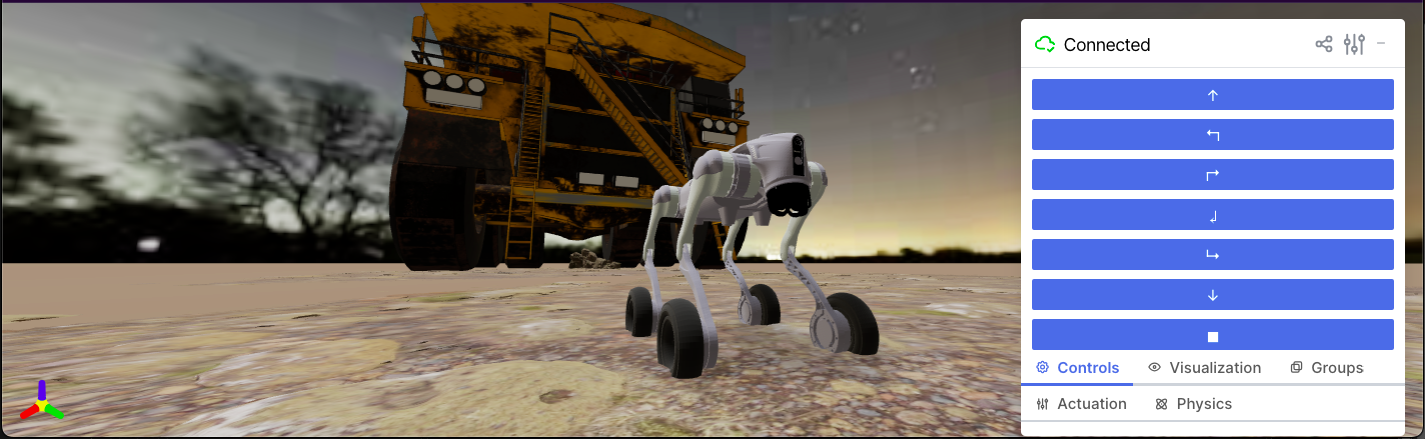
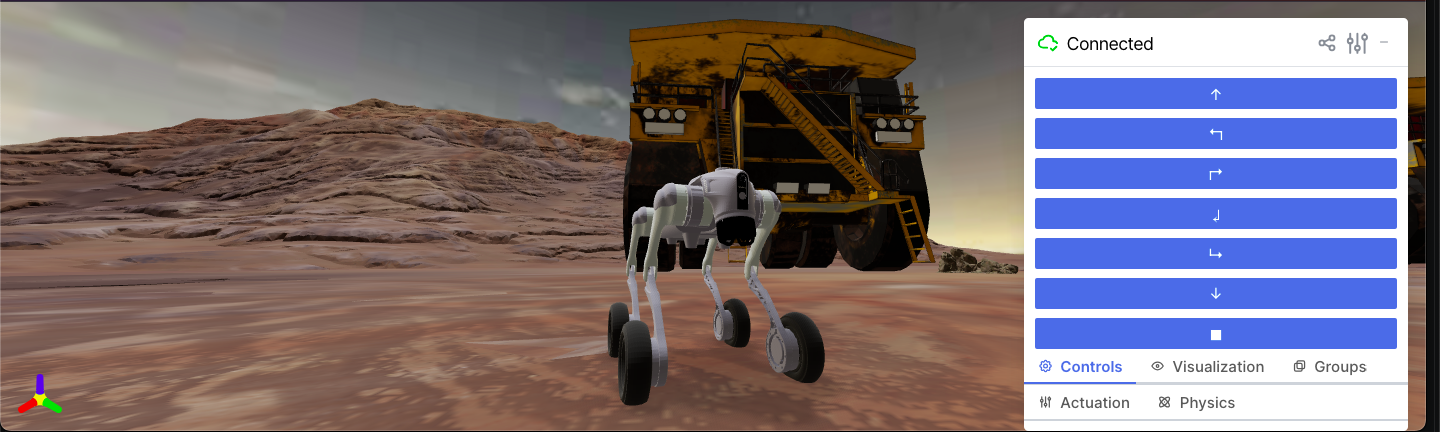
docs: adjusted details of documentation

diff --git a/README.md b/README.md
@@ -2,17 +2,13 @@
 
 ## System Overview
 
-An agent-based data processing workflow designed for automated situational reporting on site. The system monitors designated zones to identify structural elements and geographical obstacles simultaneously, using a wheeled robot configuration. Data streams from physical simulation definitions, through a robotics middleware layer, into a cloud infrastructure for storage and validation.
-
-The pipeline processes image streams from the robot camera, routes real-time telemetry to an operations dashboard, and assesses specific object proximities. If a detection falls below a high-confidence threshold, an independent asynchronous generative agent auditor validates the visual metrics, handles verification reporting, and routes confirmed alert signatures directly back into the primary communication stream.
+Robotics system designed for the mining industry integrated with cloud capabilities, detecting high-size rocks near trucks, notifying teams regarding their findings through email notifications. This system combines real-time computer vision with decentralized cloud and GenAI processes to execute predictions on the trucks while synchronizing visual evidence with dashboards to ensure continuous operational safety.
 
 ---
 
 ## In Engine Operation
 
-The workspace interface mounts a dual-pane runtime window to manage the locomotion and observation routines of the robot. 
-
-The primary viewport displays the tridimensional simulation space populated with ground mesh elements, macro obstacles, and large-scale machinery assets. A floating telemetry control deck anchors to the side, exposing programmatic interface hooks for directional actuation coordinates, sensor visualization settings, scene physics parameters, and state status reporting.
+The environment is a mining site where two trucks are parked, and near them are the rocks the robot is responsible for identifying.
 
 ![Operational Workspace](docs/In-engine-image.png)
 
@@ -20,33 +16,30 @@ The primary viewport displays the tridimensional simulation space populated with
 
 ## Features
 
-- **Proximity Event Logging:** Captures co-occurrence events involving geographical elements and machinery assets from raw visual matrices.
-- **Real-Time Observability and RoboOps:** Streams raw camera topic metrics into a remote **Foxglove Studio** control room dashboard using high-performance WebSocket bridges for live site monitoring.
-- **Asynchronous Execution Buffering:** Implements standard polling delays within the notification loop to manage stream frequencies.
-- **Decoupled Validation Engine:** Employs an independent compute layer (`agent_auditor`) to review lower-confidence edge-case data entries without hindering telemetry ingestion.
-- **Structured Schema Enforcements:** Assures type uniformity and properties definition across the data ingestion pipeline using explicit schema definitions.
-
+- **Real-Time Observability:** Streams raw camera topic metrics into a remote Foxglove Studio control room dashboard using WebSocket bridges for live site monitoring.
+- **Decoupled Validation Engine:** Employs an independent GenAI layer to review lower-confidence data entries without hindering telemetry ingestion.
+- **Structured Schema Enforcement:** Ensures type uniformity and property definitions across the data ingestion pipeline using explicit schema definitions.
 ---
 
 ## Data Flow
 
 ```mermaid
 graph TD
-    subgraph Simulation and Middleware
-        MUJOCO("MuJoCo Simulation Frame") --> |Camera Stream| ROS2("ROS2 Camera Topic")
-        ROS2 --> |CvBridge Ingestion| YOLO("YOLO Object Detection")
-        ROS2 --> |Foxglove Bridge WebSocket| FOXGLOVE("Foxglove Studio Live Dashboard")
+    subgraph Robotics System
+        MUJOCO("Robotics Simulation") --> |Camera Recording| ROS2("ROS2 Topic")
+        ROS2 --> |ROS2 Ingestion| ComputerVision("Computer Vision Object Detection")
+        ROS2 --> |ROS2 Ingestion| WebDashboard("Web Dashboard")
     end
 
     subgraph High Confidence Route
-        YOLO --> |High Confidence Match| IOT("AWS IoT Core Message Broker")
+        ComputerVision --> |High Confidence Prediction| IOT("AWS IoT")
     end
 
     subgraph Low Confidence & Validation Infrastructure
-        YOLO --> |Low Confidence Match| S3("Amazon S3 Bucket")
-        S3 --> |Object Creation Event Trigger| LAMBDA("AWS Lambda Function")
-        LAMBDA --> |Image Audit Invocation| CHATGPT("GPT-5-nano Auditor Model")
-        CHATGPT --> |Positive Verification Payload| IOT
+        ComputerVision --> |Low Confidence Prediction| Bucket("Cloud Bucket")
+        Bucket --> |Object Creation Event Trigger| ServerlessFunction("Cloud Serverless Function")
+        ServerlessFunction --> |Image Audit Invocation| GenAIAgent("GenAI Agent")
+        GenAIAgent --> |Positive Verification| IOT
     end
 
     subgraph Downstream Alerts
@@ -54,24 +47,26 @@ graph TD
     end
 ```
 
-1. **Vision Retrieval:** The Unitree Go2w robot simulation evaluates geographical fields near asset locations via its camera system.
-2. **Topic Subscription and Live Observability:** Frames are mapped into an active ROS2 topic (`sensor_msgs/msg/Image`) via a bridge pipeline. Simultaneously, the camera stream is multiplexed and pushed natively over a WebSocket interface using a `foxglove_bridge` link to feed real-time visual frames straight to a localized **Foxglove Studio** platform.
-3. **Inference Pipeline:** A YOLO model trained for 100 epochs interprets the frames. 
+1. **Vision Retrieval:** The wheeled robot evaluates high-size rocks through a camera inside the simulation engine.
+2. **Topic Subscription and Live Observability:** Frames are mapped into an active ROS2 topic via CvBridge. Simultaneously, the camera stream is pushed using a Foxglove bridge link to feed real-time visual frames straight to a **Foxglove** web platform.
+3. **Inference Pipeline:** A custom-trained YOLO model processes and interprets the incoming visual frames. 
 4. **Conditional Cloud Distribution:** 
-   * **High Confidence:** If an operational asset and a boundary object appear within the same frame above designated high-confidence thresholds, the robot bypasses the auditor and publishes the MQTT payload directly to **AWS IoT Core**.
-   * **Low Confidence:** If the detection falls under the confidence threshold, the robot does *not* send an MQTT payload. Instead, it uploads the image exclusively to **Amazon S3** to kick off the external audit process.
-5. **Auditing Verification:** The object creation event in Amazon S3 triggers an AWS Lambda function that invokes the **Agent Auditor** using a `gpt-5-nano` model via the OpenAI SDK. If the agent confirms with high certainty that the image shows exactly a rock near a truck, the agent auditor itself compiles and sends the finalized MQTT payload directly to **AWS IoT Core**.
+   * **High Confidence:** If the frame predictions are above the designated high-confidence thresholds, the robot bypasses the GenAI Auditor and publishes the MQTT payload directly to **AWS IoT Core**.
+   * **Low Confidence:** If the detection falls below the confidence threshold, the robot does *not* send an MQTT payload. Instead, it uploads the image exclusively to **Amazon S3** to kick off the external GenAI audit process.
+5. **Auditing Verification:** The object creation event in Amazon S3 triggers an AWS Lambda function that invokes the **Agent Auditor** using a gpt-5-nano model via the OpenAI SDK. If the agent confirms that the image shows exactly a rock near a truck, the agent auditor itself sends the finalized MQTT payload directly to **AWS IoT Core**.
 6. **Downstream Messaging:** **AWS IoT Core** validates the received MQTT payload (regardless of whether it originated directly from the robot or from the agent auditor) and filters it through an internal SQL query statement to issue email alerts via **Amazon SNS**.
+
 
 ---
 
 ## Data Structures
 
 ### AWS IoT Core Ingestion Payload
-The system transmits the following payload format to the **AWS IoT Core** message broker upon discovering a positive target correlation (sent directly by the robot on high-confidence matches, or by the agent auditor upon successful verification):
+The system transmits the following payload format to **AWS IoT** upon discovering a positive target correlation (sent directly by the robot on high-confidence matches, or by the agent auditor upon successful verification):
 
 ```json
 {
+  "device_id": "wheeled_robot_01",
   "process_id": "a1b2c3d4-e5f6-7a8b-9c0d-1e2f3a4b5c6d",
   "element_type": "rock_near_truck",
   "alert_level": "warning",
@@ -80,7 +75,7 @@ The system transmits the following payload format to the **AWS IoT Core** messag
 }
 ```
 
-### Agent Auditor Internal Prompt & Schema
+### GenAI LLM Agent Auditor Internal Prompt & Schema
 The agent is explicitly structured around the following core execution logic:
 
 ```text
@@ -105,7 +100,7 @@ Notes:
 This repository hosts two distinct, decoupled sub-projects working co-dependently to form the end-to-end intelligent automation solution.
 
 ### 1. Robotics Simulation
-The core edge system running localized 3D physics rendering loops, sensory tracking topics via ROS2, and immediate computer vision inferences.
+The core edge system running localized 3D rendering loops, sensory tracking topics, and immediate computer vision inferences.
 
 ```text
 robotics_simulation/
@@ -116,19 +111,20 @@ robotics_simulation/
 ├── config/
 ├── core/
 ├── robotics/
-├── scene_3d/
+├── scene/
 │   ├── assets/
 │   │   └── models/
 │   └── schemas/
 └── docs/
 ```
 
-### 2. Agent Auditor
-A standalone microservice that interfaces with cloud object store triggers and leverages multimodal large language models to inspect and settle boundary-case physical logs.
+### 2. GenAI Agent Auditor
+A standalone serverless cloud function that interfaces with cloud object store triggers and leverages a large language model to inspect and validate incoming captured images.
 
 ```text
 agent_auditor/
 ├── config/
+├── core/
 ├── prompts/
 ├── schemas/
 ├── services/
@@ -137,16 +133,15 @@ agent_auditor/
 
 ---
 
-## Simulation Configuration
-
-The physics definitions establish the tridimensional spatial tracking layout, rendering characteristics, and collision hulls within the MuJoCo runtime workspace.
-
----
-
 ## Simulation Architecture
 
-The tridimensional simulation workspace uses a multi-layered asset loading configuration within the MuJoCo runtime workspace to track spatial bounds and calculate terrain collisions.
+The tridimensional simulation workspace uses an asset loading configuration within the MuJoCo runtime workspace to track spatial bounds and calculate terrain collisions.
 
-- **Scene Entrypoint (`scene.xml`):** Integrates the Unitree Go2w kinematics layout, declares external 3D reference paths (`.obj` meshes), mounts texture descriptors, and maps coordinates for asset entities (`truck_dumper_1` and `rock_brown_1`).
-- **Terrain Subcomponent Asset Assembly (`terrain_rocks.xml`):** Segregates position vectors for low-profile landscape boundaries underneath the equipment models and the primary driving boundaries.
-- **Visual Capture Parameters:** Headless rendering routines utilize forced lighting distributions and fixed pixel matrix shapes to preserve uniformity for the vision pipeline.
+- **Scene Entrypoint (`scene.xml`):** Integrates the robot layout, declares external 3D reference paths (`.obj` meshes), loads textures, and maps coordinates for asset entities such as the trucks, the mountain and the rocks in the scene.
+
+### Acknowledgments
+This project was made possible by leveraging industry-leading tools and frameworks:
+* AI & Logic: OpenAI for the development of GPT models and the OpenAI Python SDK for seamless agent integration.
+* Engine & Interface: The MuJoCo Engine team for the core environment.
+
+Project Link: [github.com](https://github.com/manuelftech/physical-ai-control)
